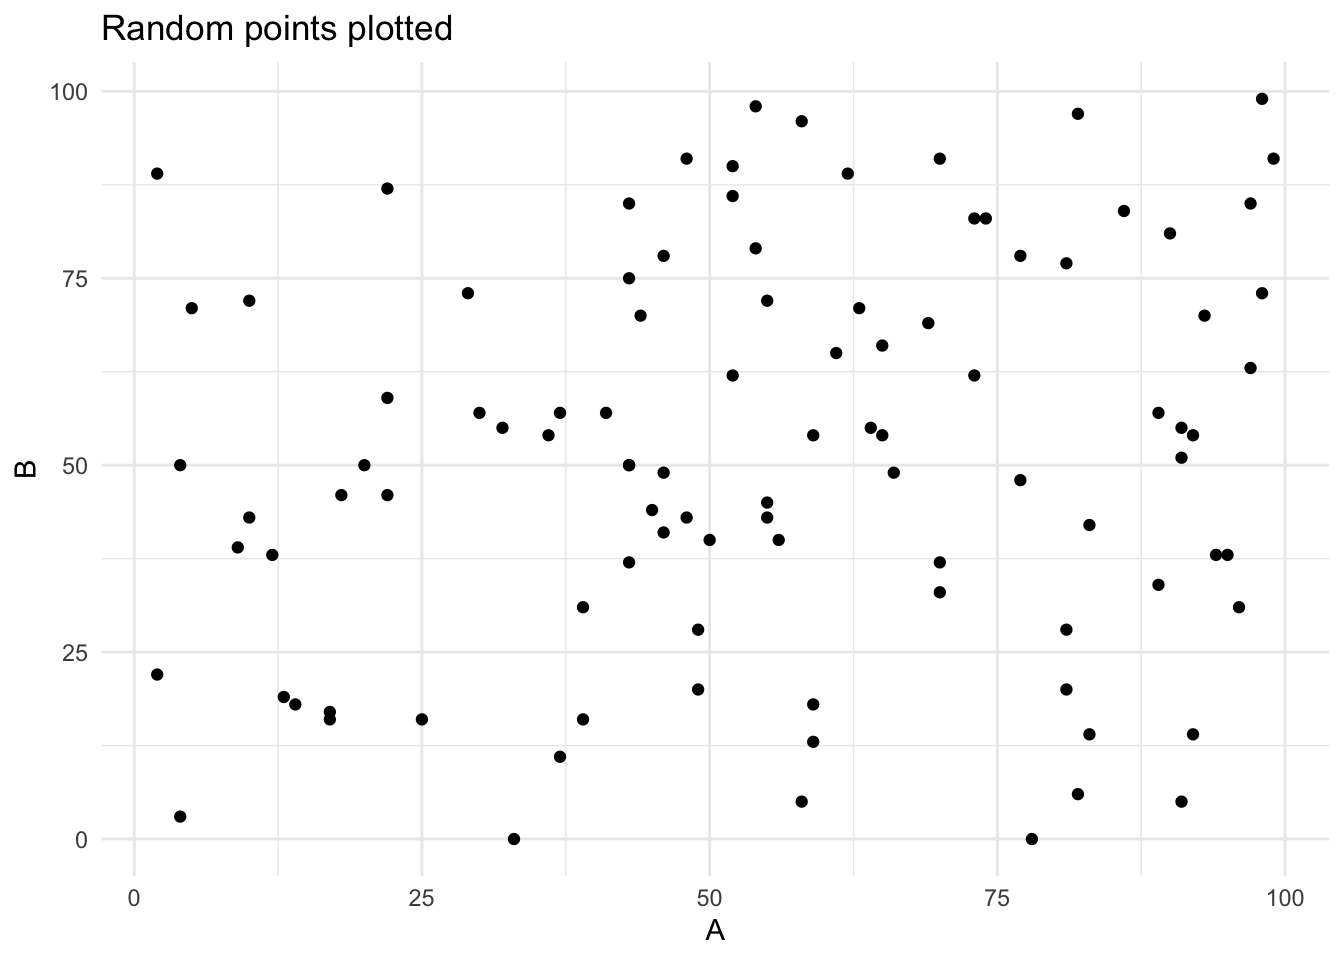
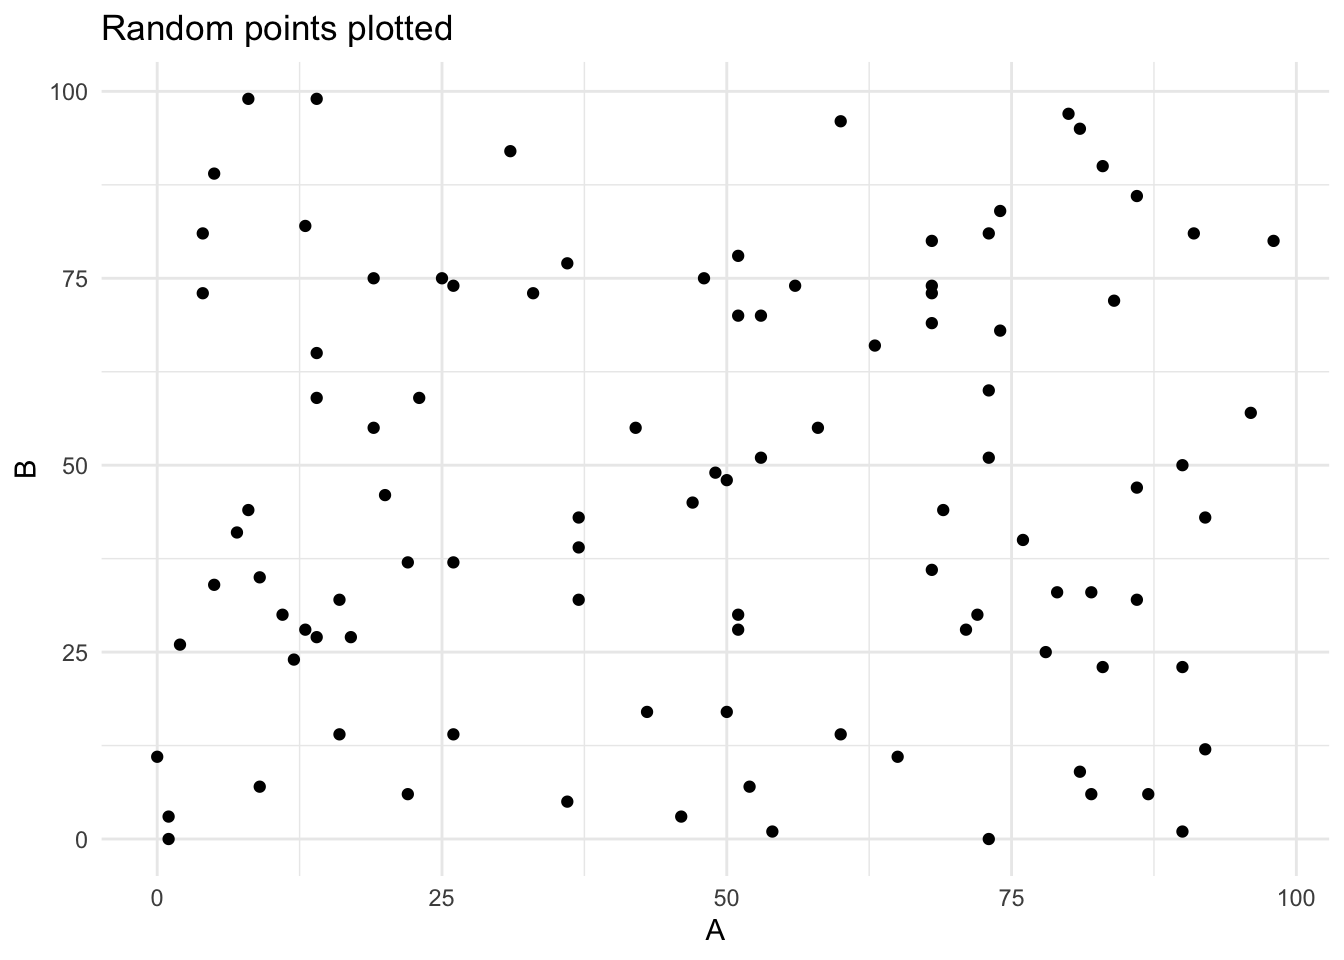
update quickstart

diff --git a/quickstart.html b/quickstart.html
@@ -132,8 +132,10 @@ code span.wa { color: #60a0b0; font-weight: bold; font-style: italic; } /* Warni
 
 <section id="python-r" class="level2">
 <h2 class="anchored" data-anchor-id="python-r">Python + R</h2>
-<p>A workflow for using Python and R in the same notebook. For another setup that uses Jupyter Notebooks to do the same, see: <a href="https://github.com/dmil/jupyter-quickstart" class="uri">https://github.com/dmil/jupyter-quickstart</a></p>
-<p>When you run this notebook, it should ask to install the <code>reticulate</code> package. Once that is installed correctly, you should be able to run both R and Python cells.</p>
+<p>A workflow for using Python and R in the same quarto notebook. When you run this notebook, it should ask to install the <code>reticulate</code> package. Once that is installed correctly, you should be able to run both R and Python cells.</p>
+<blockquote class="blockquote">
+<p>Prefer to work in Jupyter notebooks? Check out this <a href="https://github.com/dmil/jupyter-quickstart">alternate setup</a> that allows you to use Python and R together in a Jupyter notebook.</p>
+</blockquote>
 </section>
 <section id="setup" class="level2">
 <h2 class="anchored" data-anchor-id="setup">Setup</h2>
@@ -179,11 +181,11 @@ code span.wa { color: #60a0b0; font-weight: bold; font-style: italic; } /* Warni
 <span id="cb4-6"><a href="#cb4-6" aria-hidden="true" tabindex="-1"></a>df.head(<span class="dv">5</span>)</span></code><button title="Copy to Clipboard" class="code-copy-button"><i class="bi"></i></button></pre></div>
 <div class="cell-output cell-output-stdout">
 <pre><code>    A   B
-0  29  73
-1  45  44
-2  41  57
-3  22  87
-4  18  46</code></pre>
+0  65  11
+1  90   1
+2  68  69
+3  42  55
+4   4  81</code></pre>
 </div>
 </div>
 <p>The following is an R cell. The <code>df</code> variable defined above is available as <code>py$df</code>. Python variables should be accessible in R prefixed with <code>py$</code> .</p>
